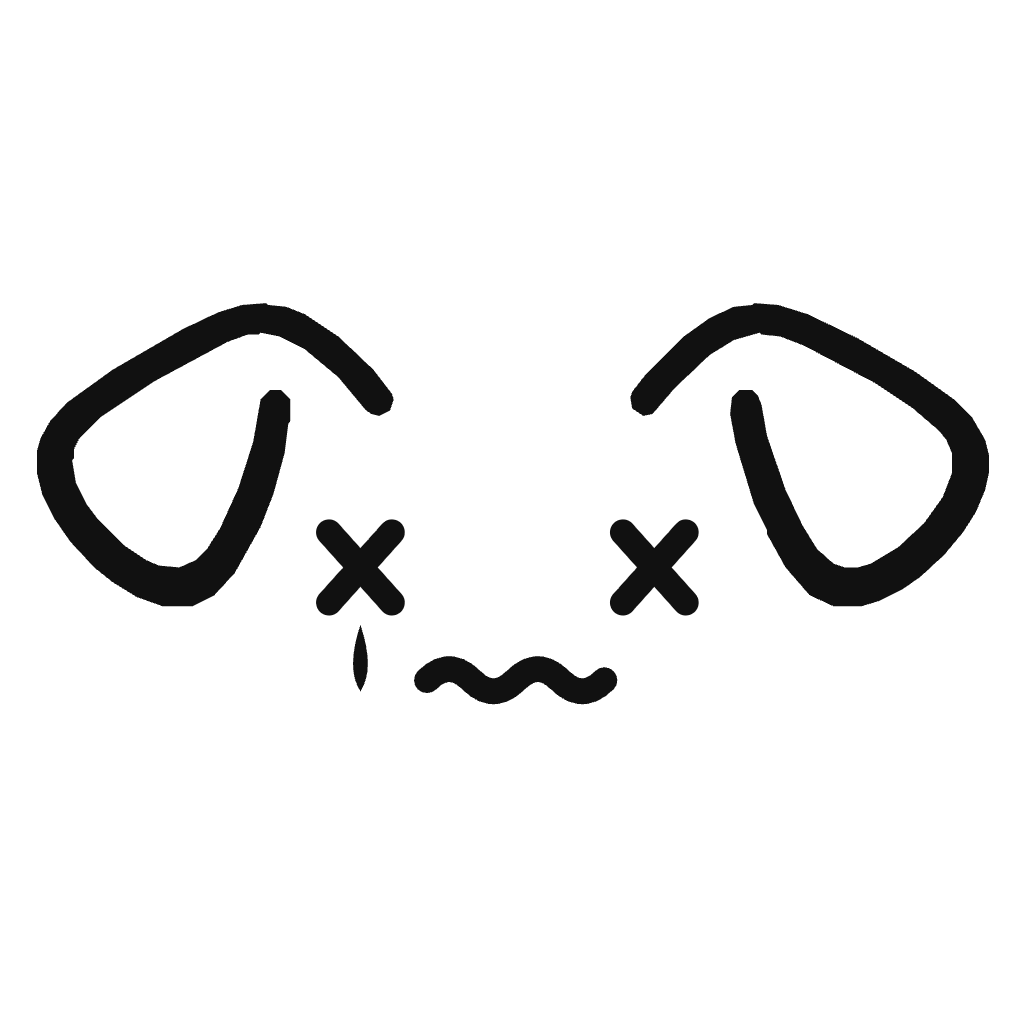
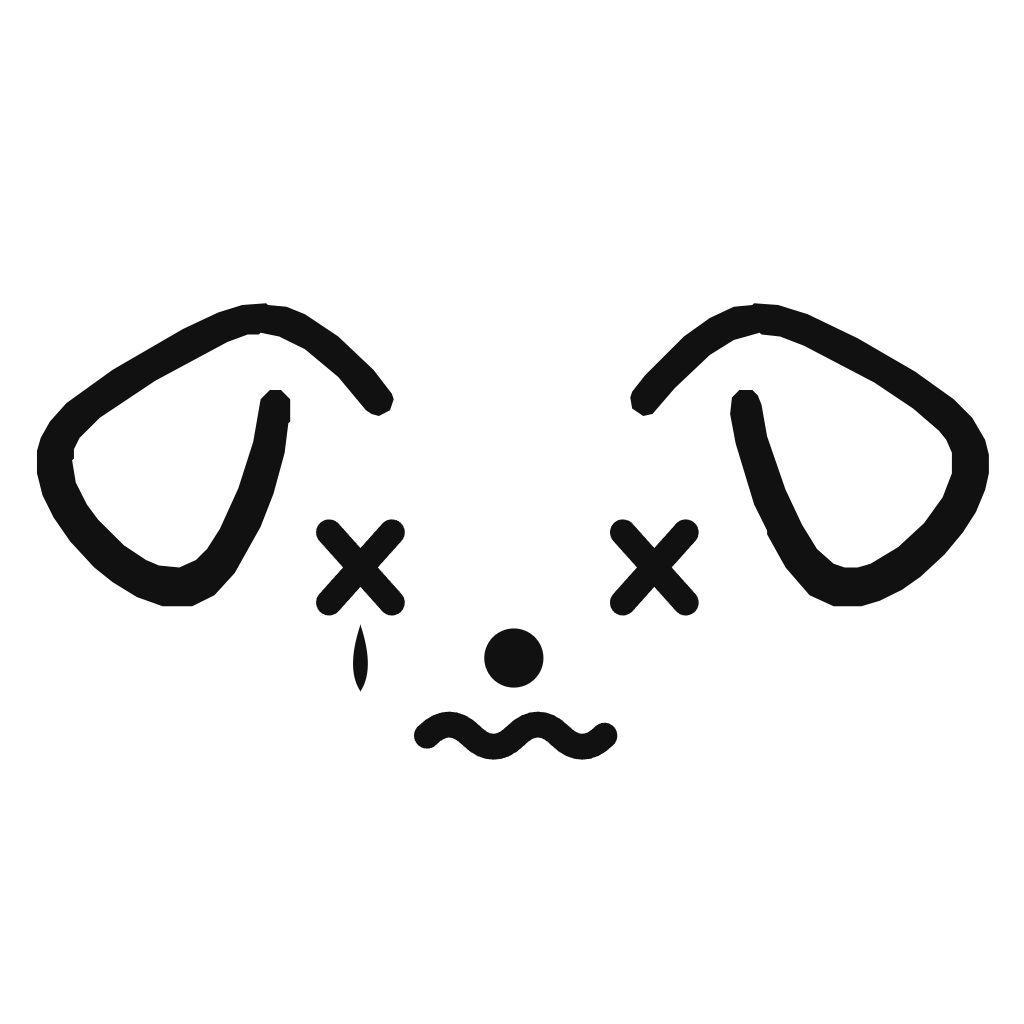
feat: 컬러테마 적용

Changed region(s): [[0.4062, 0.5938, 0.625, 0.75]]

diff --git a/constants/theme.ts b/constants/theme.ts
@@ -1,26 +1,46 @@
+// Color System v1 + v2
 export const colors = {
-  primary: '#4E5968',
-  background: '#F7F8FA',
+  // Brand
+  primary: '#D88C73',
+  secondary: '#8F9A8D',
+  primarySoft: '#FFE4D1',
+
+  // Backgrounds
+  background: '#FAF8F5',
+  card: '#FFFFFF',
   surface: '#FFFFFF',
-  surfaceAlt: '#F2F4F6',
-  textPrimary: '#191F28',
-  textSecondary: '#4E5968',
+  surfaceAlt: '#F0EDE9',
+
+  // Text
+  text: '#2F2F2F',
+  textPrimary: '#2F2F2F',
+  textSecondary: '#6B6B6B',
   textTertiary: '#8B95A1',
   textQuaternary: '#B0B8C1',
   textOnPrimary: '#FFFFFF',
-  success: '#00B8A0',
-  warning: '#FFB930',
-  danger: '#E94B5A',
-  info: '#4A90E2',
-  border: '#E5E8EB',
-  divider: '#F2F4F6',
-  accent: '#E94B5A',
-  accentSoft: '#FFE5E5',
-  condition1: '#E94B5A',
+
+  // Semantic colors
+  danger: '#D66A6A',
+  dangerBg: '#F7ECEA',
+  success: '#8FA38D',
+  successBg: '#EEF2ED',
+  warning: '#C8A06B',
+  warningBg: '#F6F0E8',
+  info: '#8FA0B2',
+  infoBg: '#EEF2F5',
+
+  // UI elements
+  border: '#ECE7E2',
+  divider: '#ECE7E2',
+  accent: '#D66A6A',      // danger 별칭 — 하위 호환
+  accentSoft: '#F7ECEA',  // dangerBg 별칭 — 하위 호환
+
+  // Condition states (pet health — UI semantic과 별도)
+  condition1: '#D66A6A',
   condition2: '#FFB930',
   condition3: '#B0B8C1',
   condition4: '#7AC97A',
-  condition5: '#00B8A0',
+  condition5: '#8FA38D',
 } as const;
 
 export const spacing = {

diff --git a/app/(tabs)/settings.tsx b/app/(tabs)/settings.tsx
@@ -463,12 +463,13 @@ export default function SettingsScreen() {
           disabled={isLoggingOut || isDeletingAccount}
         />
         <Row
-          icon={<UserX size={20} color={colors.textSecondary} />}
+          icon={<UserX size={20} color={colors.danger} />}
           label="회원 탈퇴"
           desc={isDeletingAccount ? '탈퇴 처리 중이에요' : '계정 및 모든 데이터 삭제'}
-          right={isDeletingAccount ? <ActivityIndicator color={colors.textSecondary} /> : undefined}
+          right={isDeletingAccount ? <ActivityIndicator color={colors.danger} /> : undefined}
           onPress={handleDeleteAccount}
           disabled={isDeletingAccount || isLoggingOut}
+          destructive
           last
         />
       </Card>
@@ -565,12 +566,12 @@ const s = StyleSheet.create({
   },
 
   badge: {
-    backgroundColor: colors.accentSoft,
+    backgroundColor: colors.warningBg,
     paddingHorizontal: 8,
     paddingVertical: 3,
     borderRadius: 4,
   },
-  badgeText: { fontSize: 11, fontWeight: '600', color: colors.accent },
+  badgeText: { fontSize: 11, fontWeight: '600', color: colors.warning },
 
   versionText: { fontSize: 13, color: colors.textTertiary },
 

diff --git a/app/(tabs)/profile.tsx b/app/(tabs)/profile.tsx
@@ -1215,7 +1215,7 @@ const styles = StyleSheet.create({
     color: colors.textOnPrimary,
   },
   deleteButton: {
-    backgroundColor: colors.accentSoft,
+    backgroundColor: colors.dangerBg,
     borderRadius: radius.lg,
     paddingVertical: 14,
     alignItems: "center",
@@ -1253,7 +1253,7 @@ const styles = StyleSheet.create({
     position: "absolute",
     top: 4,
     right: 6,
-    backgroundColor: colors.accentSoft,
+    backgroundColor: colors.warningBg,
     borderRadius: radius.full,
     paddingHorizontal: 6,
     paddingVertical: 2,
@@ -1261,6 +1261,6 @@ const styles = StyleSheet.create({
   comingSoonText: {
     fontSize: 9,
     fontWeight: "700",
-    color: colors.danger,
+    color: colors.warning,
   },
 });

diff --git a/app/(tabs)/log.tsx b/app/(tabs)/log.tsx
@@ -524,7 +524,7 @@ export default function LogScreen() {
       resetStates();
       setMarkedDates(buildMarkedDates(await getCachedLogs(currentPetId)));
       setSuccessMessage('삭제되었습니다 ✓');
-      setSuccessBgColor('rgba(233,75,90,0.88)');
+      setSuccessBgColor('rgba(214,106,106,0.88)');
       setSaveStatus('saved');
       saveStatusTimerRef.current = setTimeout(() => setSaveStatus('idle'), 2000);
     } catch {
@@ -771,7 +771,7 @@ const styles = StyleSheet.create({
     color: colors.textOnPrimary,
   },
   deleteBtn: {
-    backgroundColor: colors.accentSoft,
+    backgroundColor: colors.dangerBg,
     borderRadius: radius.lg,
     paddingVertical: 14,
     alignItems: 'center',

diff --git a/app/(tabs)/photo.tsx b/app/(tabs)/photo.tsx
@@ -570,7 +570,7 @@ const styles = StyleSheet.create({
     color: colors.textSecondary,
   },
   comingSoonBadge: {
-    backgroundColor: colors.accentSoft,
+    backgroundColor: colors.warningBg,
     paddingHorizontal: spacing.sm,
     paddingVertical: 3,
     borderRadius: radius.sm,
@@ -578,7 +578,7 @@ const styles = StyleSheet.create({
   comingSoonBadgeText: {
     fontSize: 11,
     fontWeight: '600',
-    color: colors.accent,
+    color: colors.warning,
   },
   sectionLabel: {
     fontSize: 13,

diff --git a/components/AiReportPreview.tsx b/components/AiReportPreview.tsx
@@ -104,7 +104,7 @@ const styles = StyleSheet.create({
     position: 'absolute',
     top: spacing.md,
     right: spacing.md,
-    backgroundColor: colors.accentSoft,
+    backgroundColor: colors.warningBg,
     paddingHorizontal: spacing.sm,
     paddingVertical: 3,
     borderRadius: radius.sm,
@@ -112,7 +112,7 @@ const styles = StyleSheet.create({
   badgeText: {
     fontSize: 11,
     fontWeight: '600',
-    color: colors.accent,
+    color: colors.warning,
   },
   row: {
     flexDirection: 'row',

diff --git a/components/AppHeader.tsx b/components/AppHeader.tsx
@@ -224,7 +224,7 @@ const styles = StyleSheet.create({
     gap: 4,
   },
   betaBadge: {
-    backgroundColor: "#FFE4D1",
+    backgroundColor: colors.primarySoft,
     borderRadius: 4,
     paddingHorizontal: 6,
     paddingVertical: 2,
@@ -232,7 +232,7 @@ const styles = StyleSheet.create({
   betaText: {
     fontSize: 10,
     fontWeight: "700",
-    color: "#E8985C",
+    color: colors.primary,
     letterSpacing: 0.5,
   },
   logoText: {

diff --git a/components/AuthScreen.styles.ts b/components/AuthScreen.styles.ts
@@ -65,7 +65,7 @@ export const s = StyleSheet.create({
   logoCaption: {
     fontSize: 12,
     lineHeight: 17,
-    color: '#9AA0A6',
+    color: colors.textTertiary,
     textAlign: 'center',
   },
   actions: {
@@ -125,7 +125,7 @@ export const s = StyleSheet.create({
   },
   errorText: {
     borderRadius: radius.lg,
-    backgroundColor: colors.accentSoft,
+    backgroundColor: colors.dangerBg,
     paddingHorizontal: spacing.md,
     paddingVertical: spacing.sm,
     fontSize: 13,